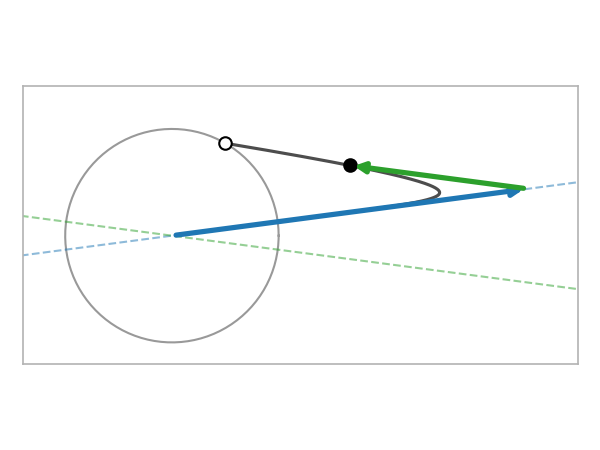
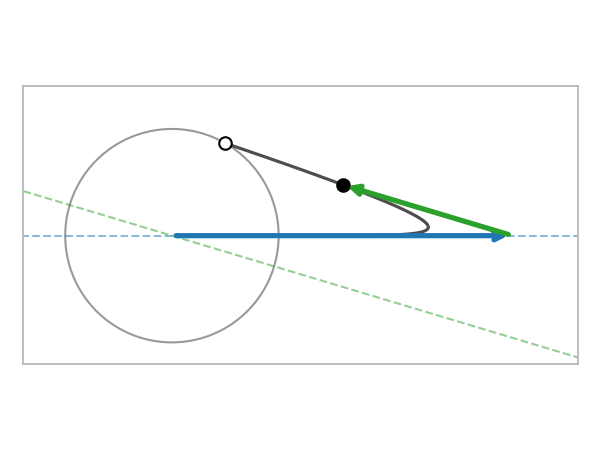
Non-normal page: start from the diagonal system, then a triangular matrix with the same eigenvalues

diff --git a/interactives/nonnormal_thumbnail.py b/interactives/nonnormal_thumbnail.py
@@ -1,7 +1,7 @@
 # Regenerate with: python3 interactives/nonnormal_thumbnail.py interactives/nonnormal.png
-# Thumbnail for the Interactives listing: the solution of u' = Au with nearly
-# parallel eigenvectors (15 degrees apart) and eigenvalues -1, -10, as on the
-# page, shortly after t = 0, with its two eigenvector components.
+# Thumbnail for the Interactives listing: the solution of u' = [[-1, 30], [0, -10]] u
+# from the page's default initial value, shortly after t = 0, with its two
+# eigenvector components.
 import sys
 
 import matplotlib
@@ -9,9 +9,8 @@ matplotlib.use("Agg")
 import matplotlib.pyplot as plt
 import numpy as np
 
-a = np.radians(15) / 2
-r1 = np.array([np.cos(a), np.sin(a)])
-r2 = np.array([np.cos(a), -np.sin(a)])
+r1 = np.array([1., 0.])
+r2 = np.array([-30., 9.]) / np.hypot(30., 9.)
 u0 = np.array([np.cos(np.radians(60)), np.sin(np.radians(60))])
 z = np.linalg.solve(np.column_stack([r1, r2]), u0)
 t = np.linspace(0, 3, 1501)
